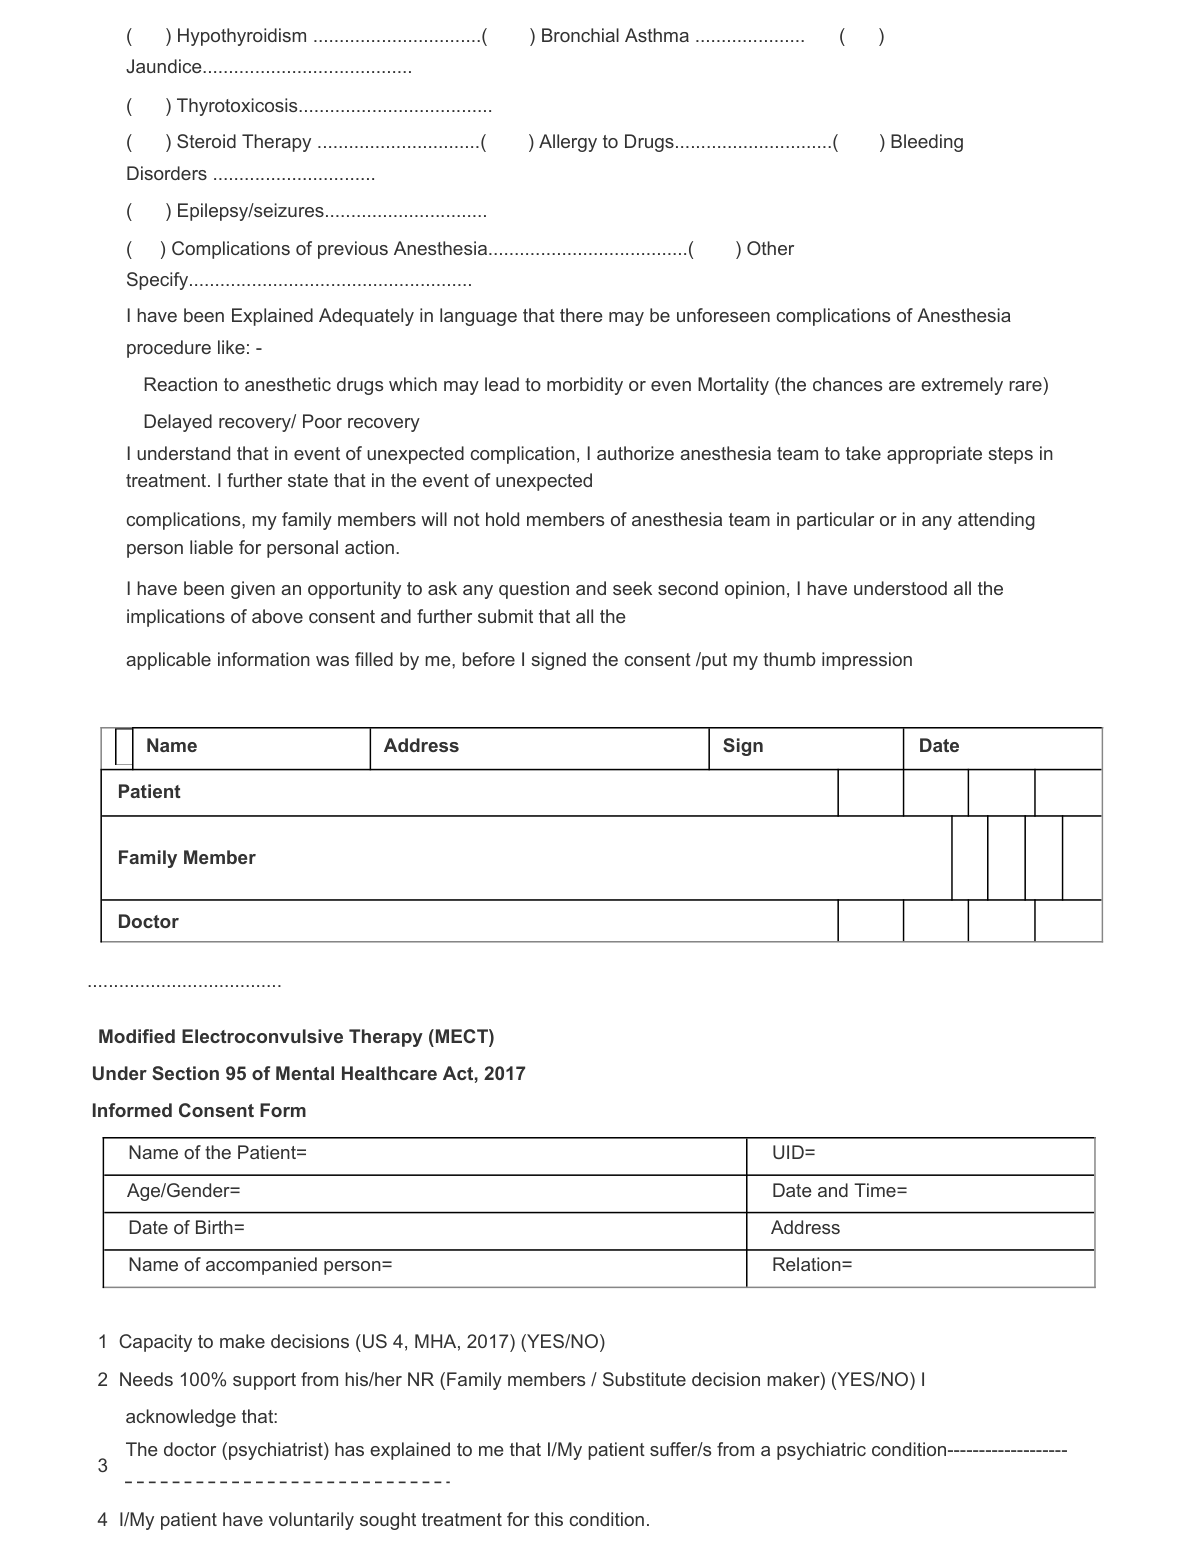
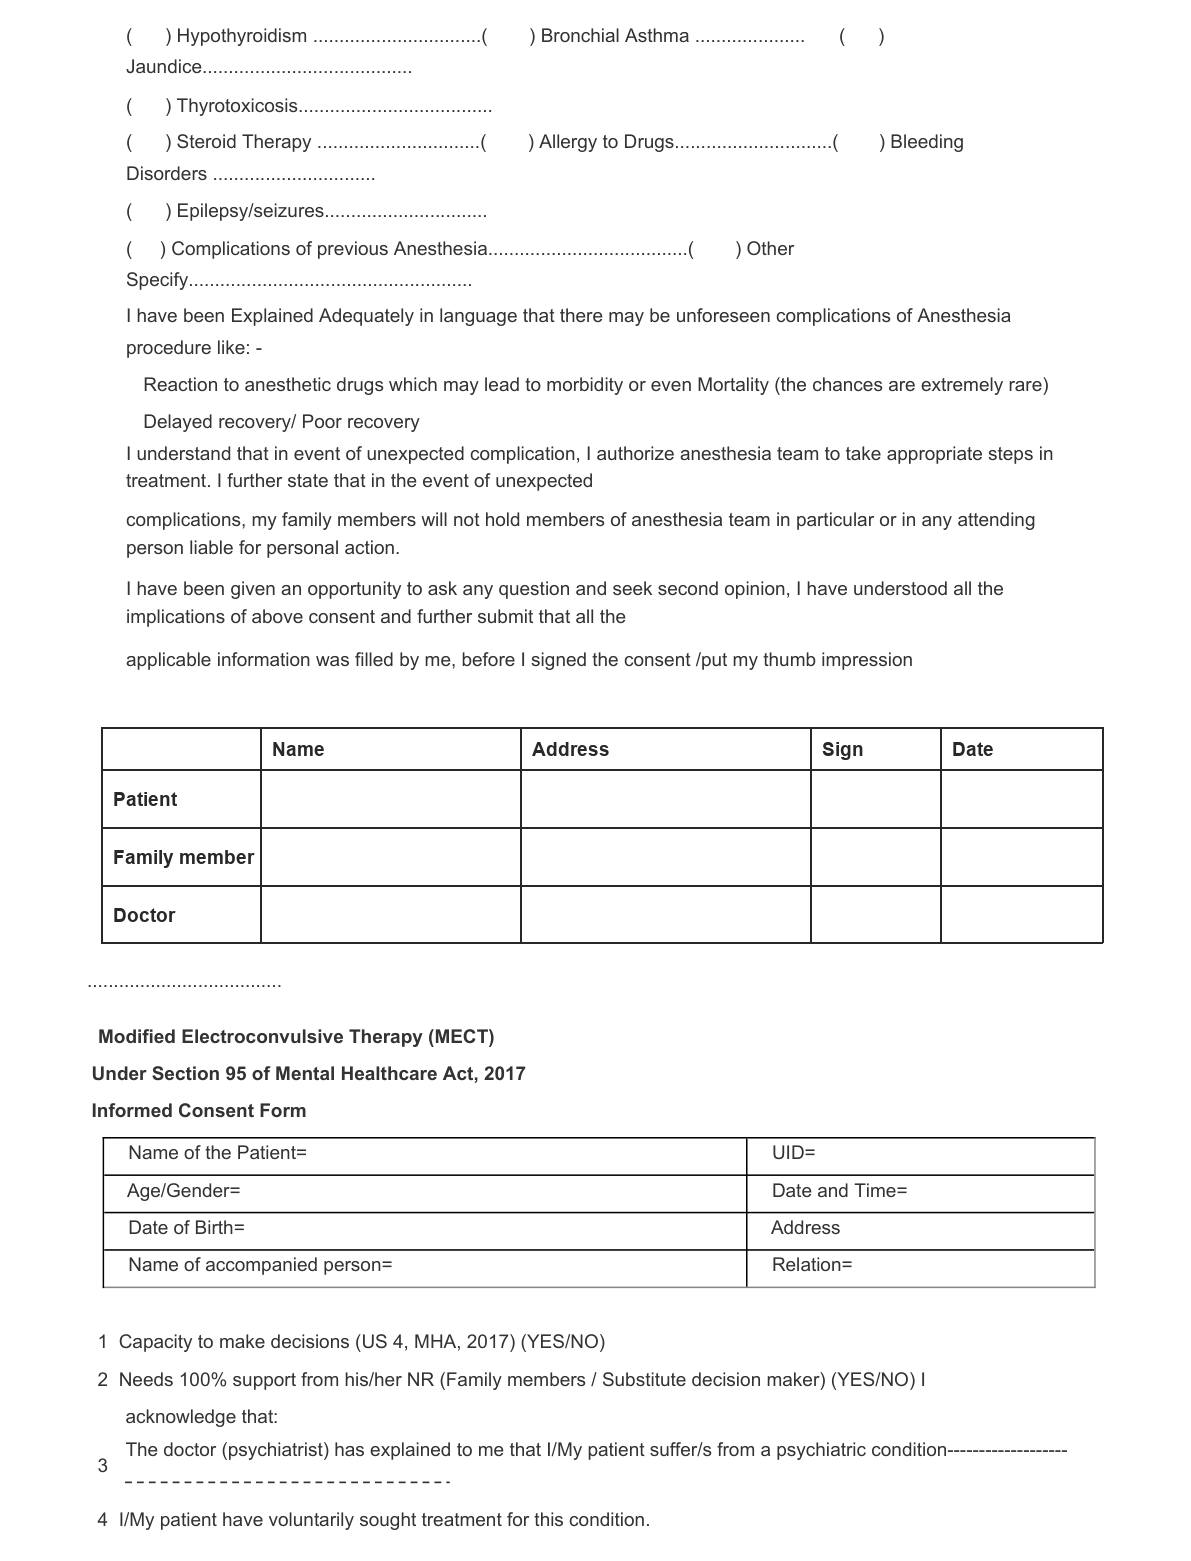
Forms: light see-through blanks with outline, text sized to fit; MECT p7 signing table redrawn; medical-problem ticks open their blanks

diff --git a/public/legacy/js/199-form-choice-cleanup-24nov-js.js b/public/legacy/js/199-form-choice-cleanup-24nov-js.js
@@ -15,8 +15,43 @@
   };
   Object.keys(DROP).forEach(fid=>{const m=CDF_FORMS[fid];if(!m||!m.pages)return;const d=DROP[fid];
     m.pages.forEach(pg=>{if(pg.fields)pg.fields=pg.fields.filter(f=>!(f.kind==='choice'&&d.includes(f.id)));});});
+  /* 24 Nov (owner): MECT page 7 signing table was printed crooked (rows did not follow the header columns), so blanks
+     sat across columns. p7.png now has a clean table (Name / Address / Sign / Date x Patient, Family member, Doctor;
+     original in git history) and one blank per cell. Sign is left for the paper signature. Old ids kept for names/dates. */
+  (function(){const m=CDF_FORMS['mect-final'],pg=m&&m.pages&&m.pages[6];if(!pg||pg.__m199)return;pg.__m199=1;
+    pg.img=String(pg.img).split('?')[0]+'?v=199';
+    const old=['p7f15','p7f16','p7f17','p7f18','p7f19','p7f20','p7f21','p7f22','p7f23','p7f24','p7f25'];
+    pg.fields=pg.fields.filter(x=>!old.includes(x.id));
+    const L=(id,label,x,y,w)=>({kind:'line',id,label,x,y,w,h:15,size:10});
+    [[391,'p7f19','Patient','m199pa','Address','p7f16'],[420,'p7f20','Family Member','m199fa','Family member address','m199fd'],[449,'p7f25','Doctor','m199da','Doctor address','p7f22']]
+      .forEach(([y,n,nl,a,al,d])=>{pg.fields.push(L(n,nl,133,y,124),L(a,al,263,y,139),L(d,'Date',473,y,75));});
+  })();
+  /* 24 Nov (owner): MECT medical problems '( ) Hypertension ...': the '( )' is a tick box (m199t.<id>); the blank(s)
+     after it show only once it is ticked (or hold a value the user typed). Auto-filled values alone do not show it. */
+  const TK=[[4,'p5f13',83,229.2,11.9],[4,'p5f14',260.9,229.2,11.9],[4,'p5f15',386.9,229.2,11.9],[5,'p6f1',83,10.7,12.3],
+    [6,'p7f1',83.5,10.9,11.9],[6,'p7f2',265.4,10.9,11.9],[6,'p7f3',439.9,10.4,12.3,'p7f4'],[6,'p7f5',83,46.3,11.9],
+    [6,'p7f6',439.9,63.8,12.3,'p7f9'],[6,'p7f7',83,64.2,11.9],[6,'p7f8',264.4,64.2,11.9],[6,'p7f10',83,98.7,11.9],
+    [6,'p7f11',80.5,117.4,11.9],[6,'p7f12',368.4,117,12.3,'p7f13']];
+  const GATE={};
+  (function(){const m=CDF_FORMS['mect-final'];if(!m||!m.pages||m.__m199t)return;m.__m199t=1;
+    TK.forEach(([pi,id,x,y,h,id2])=>{const pg=m.pages[pi];if(!pg)return;const t='m199t_'+id;
+      pg.fields.push({kind:'check',id:t,label:'Tick',x:x-23,y:y-0.5,w:27,h:h+1,size:10});GATE[id]=t;if(id2)GATE[id2]=t;});
+  })();
+  function gate(){const key=String((typeof S!=='undefined'&&S.cdEntryKey)||'');if(key.split('|')[1]!=='mect-final')return;
+    let v={};try{v=cdfVals(key)||{};}catch(e){}const au=v.__autoIds||{};
+    Object.keys(GATE).forEach(id=>{const on=!!v[GATE[id]]||(!!v[id]&&!au[id]);
+      document.querySelectorAll('.cdf-page [oninput*="cdfSet(\'' +id+'\'"],.cdf-page [onchange*="cdfSet(\'' +id+'\'"]').forEach(e=>{e.style.visibility=on?'':'hidden';});});}
+  try{const __c=cdfCheck;cdfCheck=function(){const r=__c.apply(this,arguments);try{gate();}catch(e){}return r;};}catch(e){}
   const st=document.createElement('style');
-  st.textContent='.cdf-page .cdf-f.cdf-opt:not(.cdf-ro){box-shadow:none!important;border:1.5px solid #2e90fa!important;background:#d9eaff!important}'
+  st.textContent='.cdf-page .cdf-f.cdf-opt:not(.cdf-ro){box-shadow:none!important;border:1px solid rgba(46,144,250,.85)!important;background:rgba(46,144,250,.10)!important}'
     +'.cdf-page .cdf-f.cdf-opt.on{background:#2e90fa!important;color:#fff!important}';
+  /* 24 Nov (owner): text inside a blank was cut off (bold font taller than the blank). Every one-line blank gets a
+     font that fits its own height, centred, dark and bold, so what is typed or filled in is always readable. */
+  st.textContent+='.cdf-page input.cdf-f,.cdf-page select.cdf-f{padding:0 3px!important;color:#0b1f44!important;font-weight:700!important}';
+  function fit(){document.querySelectorAll('.cdf-page input.cdf-f:not([data-fit]),.cdf-page select.cdf-f:not([data-fit])').forEach(e=>{
+    const h=parseFloat(e.style.height)||e.clientHeight;if(!h)return;e.setAttribute('data-fit','1');
+    const fs=Math.min(parseFloat(e.style.fontSize)||parseFloat(getComputedStyle(e).fontSize)||12,Math.max(8,h*0.72));
+    e.style.setProperty('font-size',fs+'px','important');e.style.setProperty('line-height',h+'px','important');});}
+  let q=0;try{new MutationObserver(()=>{if(!q)q=requestAnimationFrame(()=>{q=0;try{fit();}catch(e){}try{gate();}catch(e){}});}).observe(document.body,{childList:true,subtree:true});}catch(e){}
   document.head.appendChild(st);
 })();

diff --git a/public/legacy/js/192-meeting-24nov-js.js b/public/legacy/js/192-meeting-24nov-js.js
@@ -48,7 +48,7 @@
     /* vitals trend: no green marks */
     '.vx-st.ok{display:none!important}',
     /* forms: blanks stand apart */
-    '.cdf-page .cdf-f:not(.cdf-ro){background:#d9eaff!important;box-shadow:inset 0 0 0 1.5px #2e90fa!important;color:#101828!important}',
+    '.cdf-page .cdf-f:not(.cdf-ro){background:rgba(46,144,250,.10)!important;box-shadow:inset 0 0 0 1px rgba(46,144,250,.85)!important;color:#101828!important}',
     '.cdf-page .cdf-f:not(.cdf-ro):focus{background:#fff!important;box-shadow:0 0 0 2px #1e6cdb!important}',
     '.cdf-page .cdf-chk.on{background:#dcfae6!important;color:#067647}',
     '.m24-mh{display:flex;justify-content:space-between;align-items:center;gap:10px;flex-wrap:wrap;margin:12px auto 6px;padding:8px 12px;border-radius:10px;background:#eef4ff;border:1px solid #c7d7fe;font-size:13px;color:#1d2939;box-sizing:border-box}',
